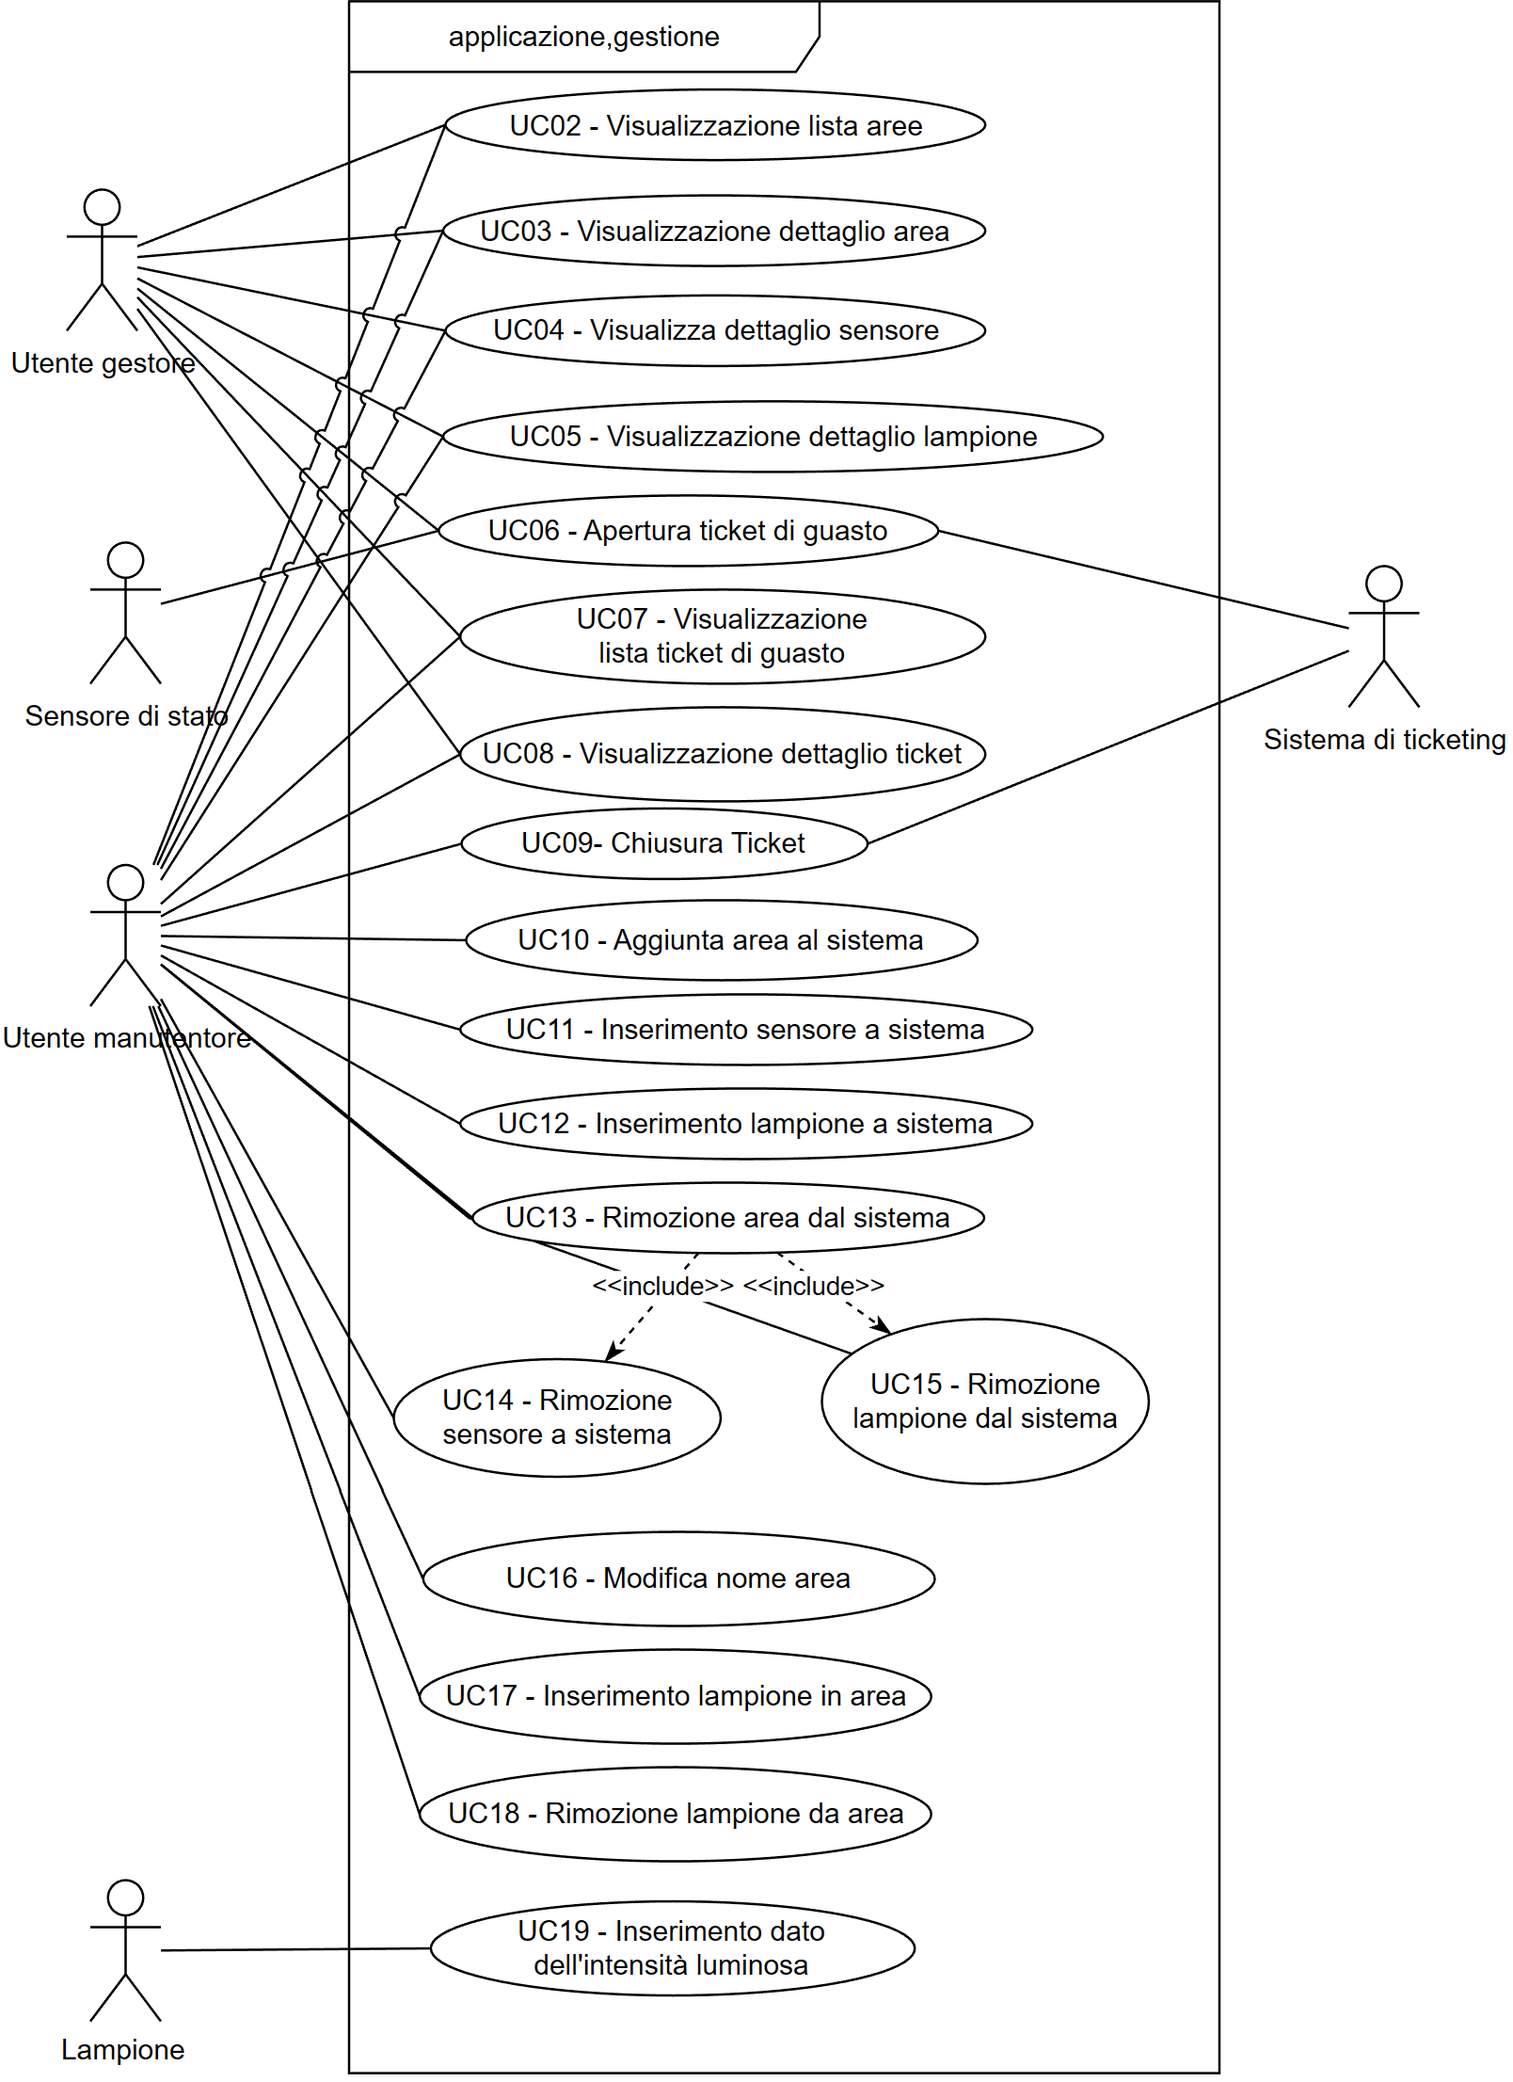
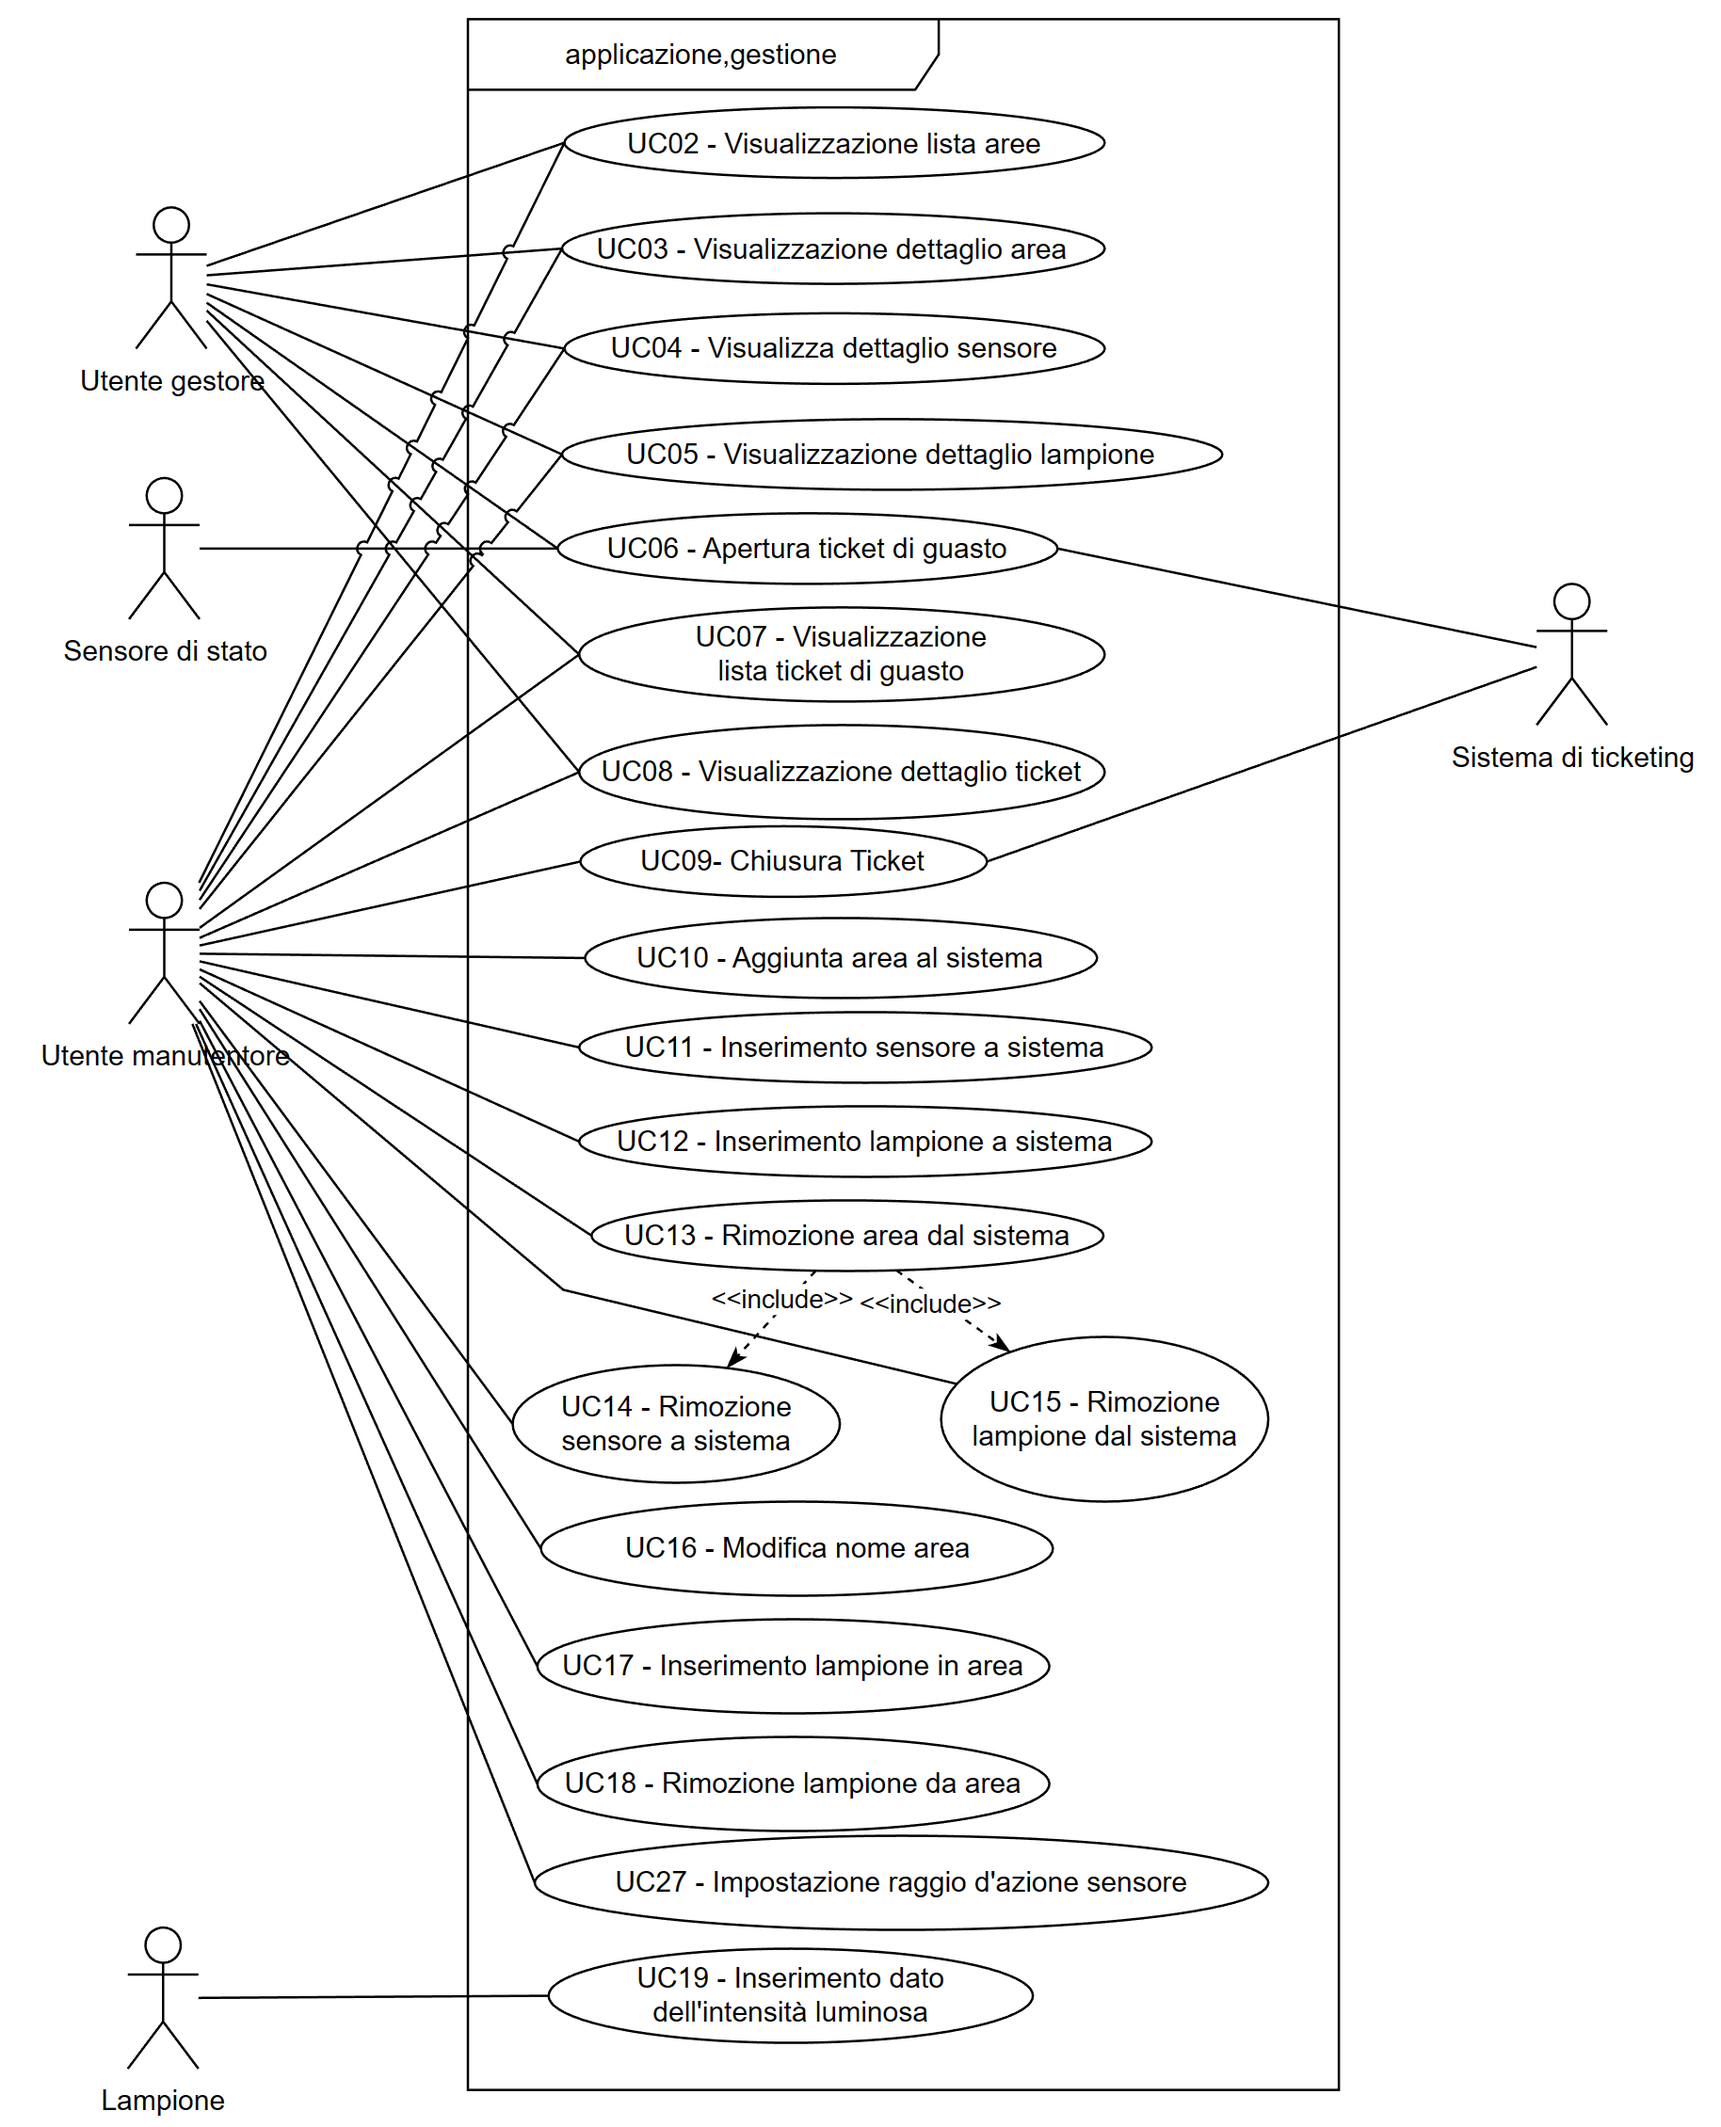
Aggiunta uc27

Changed region(s): [[0.0, 0.0, 0.995, 0.9982], [0.0311, 0.9046, 0.1244, 0.9982], [0.0933, 0.2184, 0.1244, 0.2495]]

diff --git a/src-doc/contenuti/use-cases/uc27.tex b/src-doc/contenuti/use-cases/uc27.tex
@@ -1,0 +1,10 @@
+\section{UC27 - Impostazione raggio d'azione sensore}\label{uc:27}
+\paragraph{Intenzione in contesto} L'attore primario desidera impostare il raggio d'azione di un sensore.
+\paragraph{Attore primario} L'attore primario è l'utente manutentore.
+\paragraph{Precondizioni} L'attore primario è autenticato ed autorizzato dal sistema.
+\paragraph{Post-condizioni} Il sensore specifico viene impostato con il raggio d'azione desiderato.
+\paragraph{Scenario principale}
+\begin{enumerate}
+    \item L'attore primario comunica al sistema su quale sensore vuole impostare il raggio d'azione;
+    \item il sensore viene impostato con il raggio d'azione desiderato.
+\end{enumerate}

diff --git a/src-doc/contenuti/user-stories.tex b/src-doc/contenuti/user-stories.tex
@@ -27,6 +27,7 @@
     \item Utente manutentore può aggiungere al sistema un nuovo lampione
     \item Utente manutentore può aggiungere al sistema un nuovo sensore
     \item Utente manutentore può aggiungere al sistema aree di gestione illuminazione
+    \item Utente manutentore può impostare il raggio d'azione dei sensori
 \end{itemize}
 
 

diff --git a/src-doc/contenuti/sistema-gestione.tex b/src-doc/contenuti/sistema-gestione.tex
@@ -28,4 +28,5 @@
     \item \hyperref[uc:17]{UC17 Inserimento lampione in area}
     \item \hyperref[uc:18]{UC18 Rimozione lampione in area}
     \item \hyperref[uc:19]{UC19 Inserimento dato dell'intensità luminosa}
+    \item \hyperref[uc:27]{UC27 Impostazione raggio d'azione sensore}
 \end{itemize}

diff --git a/src-doc/contenuti/use-cases.tex b/src-doc/contenuti/use-cases.tex
@@ -38,3 +38,4 @@ Si richiama alla sezione relativa, \ref{attori} nel capitolo relativo alle user 
 \input{contenuti/use-cases/uc24}
 \input{contenuti/use-cases/uc25}
 \input{contenuti/use-cases/uc26}
+\input{contenuti/use-cases/uc27}
